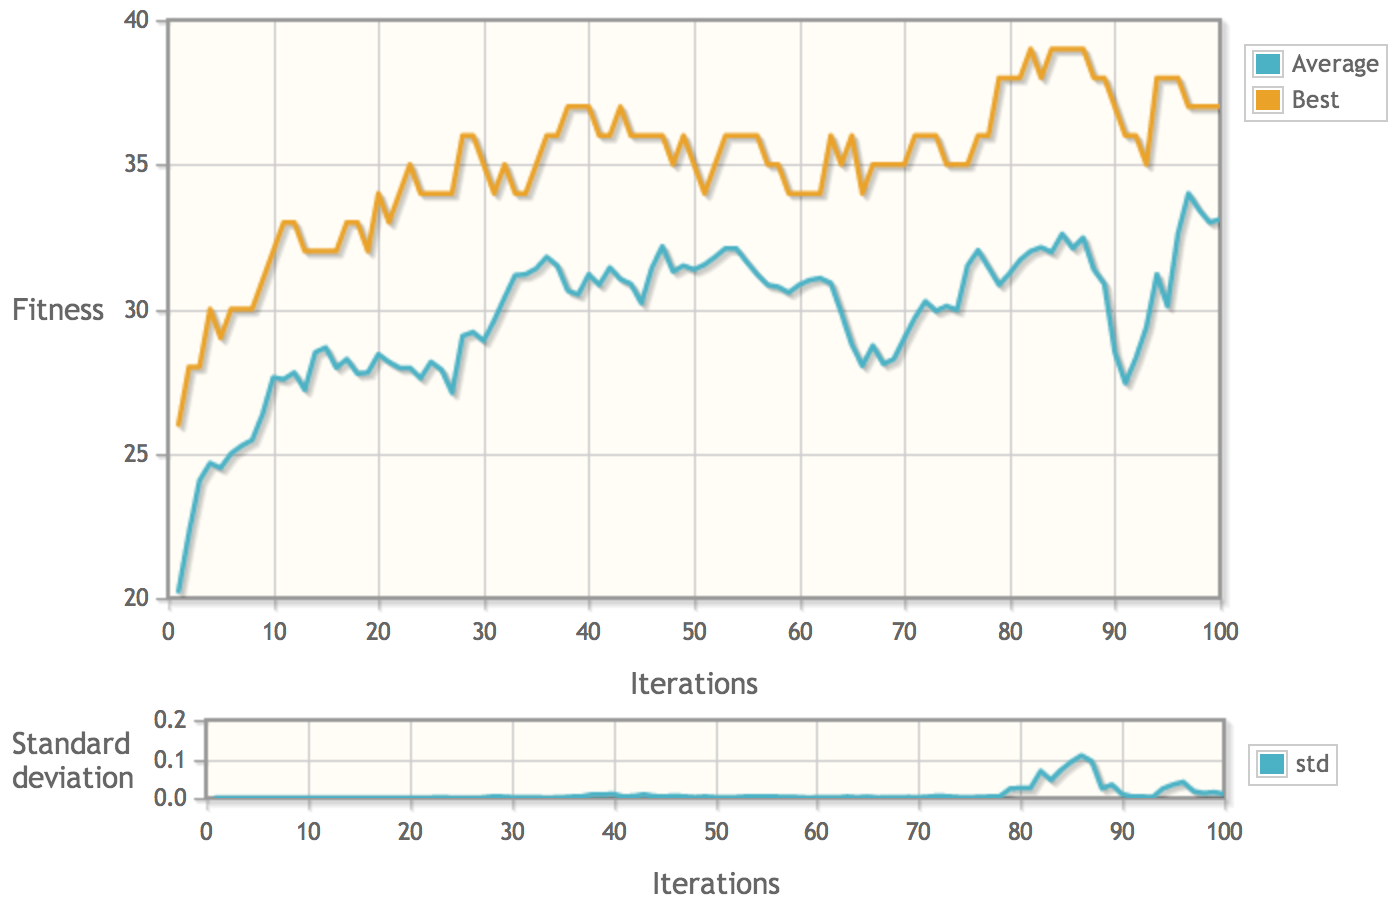
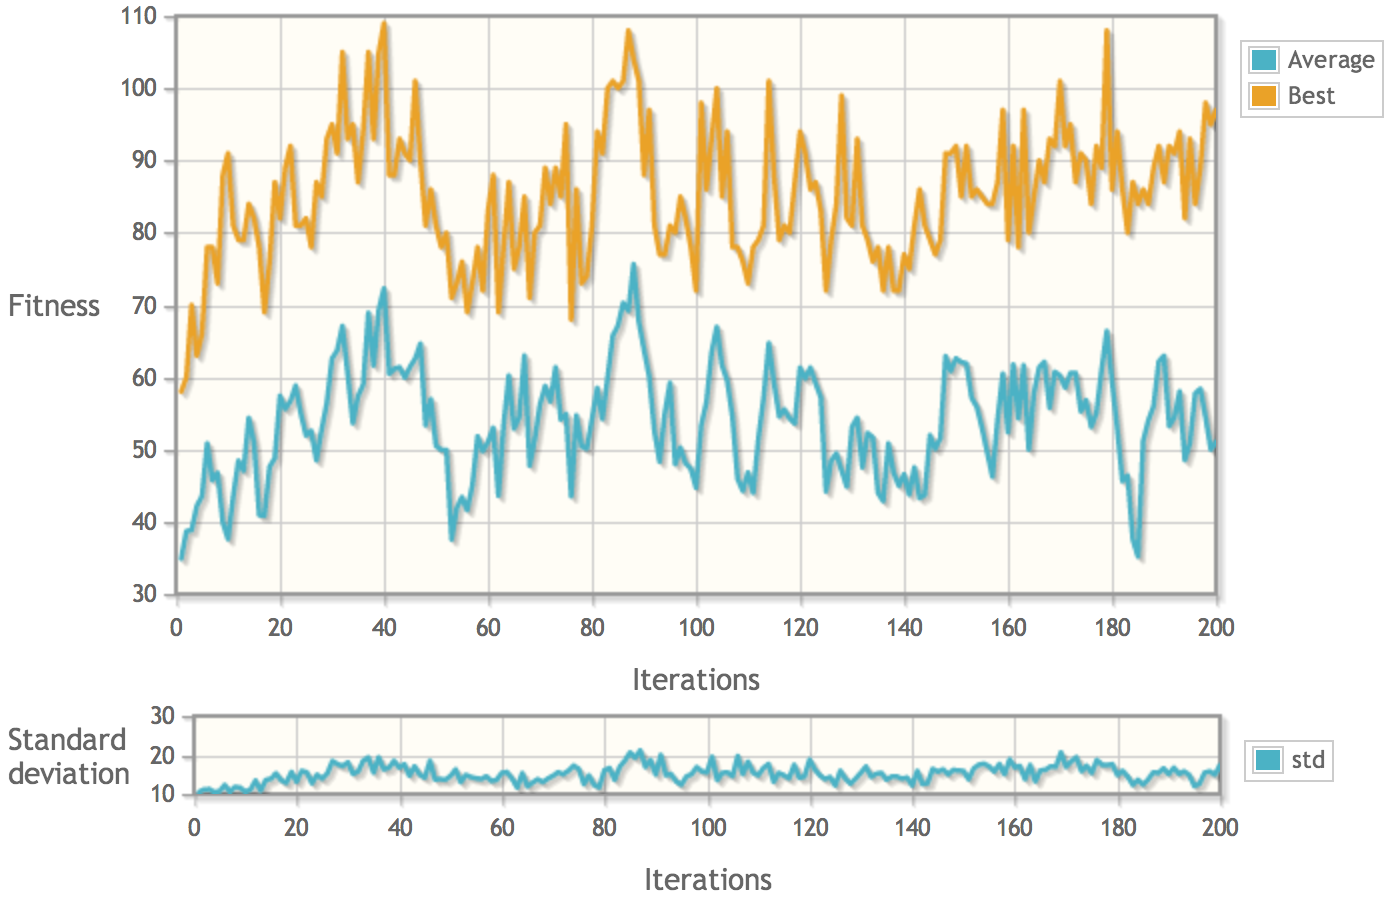
Flatland complete

diff --git a/report/assignment3/assignment3.tex b/report/assignment3/assignment3.tex
@@ -24,17 +24,17 @@ During the simulation of the robot in the flatland world we count the number of 
 	$f(x, y) = x - y$
 \end{center}
 
-This fitness function is very simple, it takes the number of foods picked up and penalizes poison pickups with subtraction from the food pickups.
+This fitness function is very simple, it takes the number of foods picked up and penalizes poison pickups with subtraction from the food pickups. 3 foods and 1 poison will result in a fitness of 2.
 
 \subsection{ANN design}
 
-\begin{figure}[H]
+\begin{figure}[h]
   \centering
     \includegraphics[width=0.5\textwidth]{img/Flatland_network}
     \caption{Artificial Neural Network for the Flatland Agent.}
 \end{figure}
 
-Three hidden nodes represents the layer between the input sensors and the output nodes. The main idea of the hidden nodes is to understand that the poison is negative and food is positive for the final outputs. The food input sensors is linked to the ``same'' hidden node, while the poison input sensors is linked to the ``opposite'' hidden node. 
+Three hidden nodes represents the layer between the input sensors and the output nodes. The main idea of the hidden nodes is to understand that the poison is negative and food is positive for the final outputs. At first we tried to link the food input sensors to the ``same'' hidden node, while the poison input sensors is linked to the ``opposite'' hidden node. We ended up linking all from one layer to all nodes in the next layer, as shown in the figure above. This method gave the Flatland agent better results.
 
 The weights in this artificial neural network can have values $[-1, 1]$. Inside each neuron the Sigmoid function is used to calculate if the neuron is activated or not. The input to the Sigmoid function is the weight of each input node that is activated. The neuron will be activated if:
 
@@ -44,21 +44,25 @@ The weights in this artificial neural network can have values $[-1, 1]$. Inside 
 
 Where x is the sum of weights times each connected neurons activation (0 or 1).
 
-The weights is evolved from the evolutionary algorithm. The bitstring from the EA is splitted up in groups of 8 bits per weight and then converted into a number in the weight range. This is of course easy to change with parameters to have higher precision to the weights in the ANN, and we found out that 8 bits as one weight was a good number to produce good results. With $x$ bits to each weight, our network with 12 edges, the EA will have to deal with $12x$ bits.
+The weights is evolved from the evolutionary algorithm. The bitstring from the EA is splitted up in groups of 8 bits per weight and then converted into a number in the weight range. The first bit in the bit-group is the signbit to determine if the weight is positive or negative. This can be a point of failure in the EA because one bit can ruin it all, but it still made it to achieve ok results. This is of course easy to change with parameters to have higher precision to the weights in the ANN, and we found out that 8 bits as one weight was a good number to produce good relatively results. With $x$ bits to each weight, our network with 27 edges, the EA will have to deal with $27x$ bits. In our case this resolves to 216 bits per genotype.
+
+\newpage % !!!!!!
 
 \subsection{Differences in performance of the EA on a static \\versus a dynamic run}
-
-TODO: Oppdatere disse grafene
-
-\begin{figure}[H]
+\begin{figure}[h]
   \centering
-    \includegraphics[width=0.8\textwidth]{img/Flatland_static}
+    \includegraphics[width=0.6\textwidth]{img/Flatland_static}
     \caption{Fitness plot for static run}
 \end{figure}
 
-\begin{figure}[H]
+\begin{figure}[h]
   \centering
-    \includegraphics[width=0.8\textwidth]{img/Flatland_dynamic}
+    \includegraphics[width=0.6\textwidth]{img/Flatland_dynamic}
     \caption{Fitness plot for dynamic run}
 \end{figure}
+
+We can see that in both cases the EA produces a relatively good best genotype very early in the simulation (around 40 iterations to achieve a fitness that holds for a high fitness). The development of the best genotype in the dynamic map run evolve to the positive at first and then varies from 70 to 100 until the end of the simulation. Random maps can potentially have foods with a ``fence'' of poison and so on. We can clearly see that the static maps have a safer learning rate than the randomly generated maps.
+
+
+Two of the static maps follow a very strict pattern for the agent to follow (actually a maze), this will affect the result from the more open spaced maps. The dynamic maps is randomly generated from the FPD of (0.5, 0.5), so the maximum fitness of the dynamic maps will be unknown due to the random function.
 

diff --git a/report/assignment4/assignment4.tex b/report/assignment4/assignment4.tex
@@ -27,9 +27,27 @@ Crossover rate & 0.2 \\
 \end{tabular}
 \end{center}
 
-\subsection{Fitness function}
+As in the Flatland problem we used \textbf{Tournament selection} along with \textbf{Generation Mixing} in the Evolutionary algorithm.
 
-$f(x,y,z) = xyz$
+\subsection{Fitness function}
+During the simulation of the Tracker problem, we count the following scores:
+
+\begin{tabular}{l | c | l}
+\textbf{Name} & \textbf{Variable} & \textbf{Comment} \\
+\hline
+Perfect hits & h & All of the objects parts have to be catched \\
+Partial hits & p & For example 2 out of 3 parts of the object catched \\
+Miss & m & Does not catch a object that is smaller than it self \\
+Negative & n & Catch a object of greater or equal of own size \\
+\hline
+\end{tabular}
+
+We tried some different coefficient in front of each parameter and these parameters worked out just fine.
+
+\begin{center}
+$f(h,p,m,n) = 2h + 0.7p - 1.2m - 2n$
+\end{center}
+
 
 \subsection{Parameteres to catch all objects}
 

diff --git a/report/report.tex b/report/report.tex
@@ -7,7 +7,7 @@
 \usepackage{graphicx}
 \usepackage{color}
 
-\usepackage{float}
+% \usepackage{float}
 %\usepackage{verbatim}
 %\usepackage[margin=25mm]{geometry}
 \setlength{\parskip}{\medskipamount}
@@ -23,7 +23,7 @@
 \section{System overview}
 The code is written in Scala and Java. To build this project we used a tool called Simple Build Tool (sbt) \cite{sbt}. As visualization for both the Flatland and the Tracker problem we wrote the outputs of the agens as JSON to a output-file and visualizated the steps in the browser with help of javascript. 
 
-\begin{figure}[H]
+\begin{figure}[h]
   \centering
     \includegraphics[width=1.0\textwidth]{img/class_diagram}
     \caption{Class hierarcy for both problems. Color labels is to the top-right of the figure. This makes it easy to add new problems to the codebase.}
